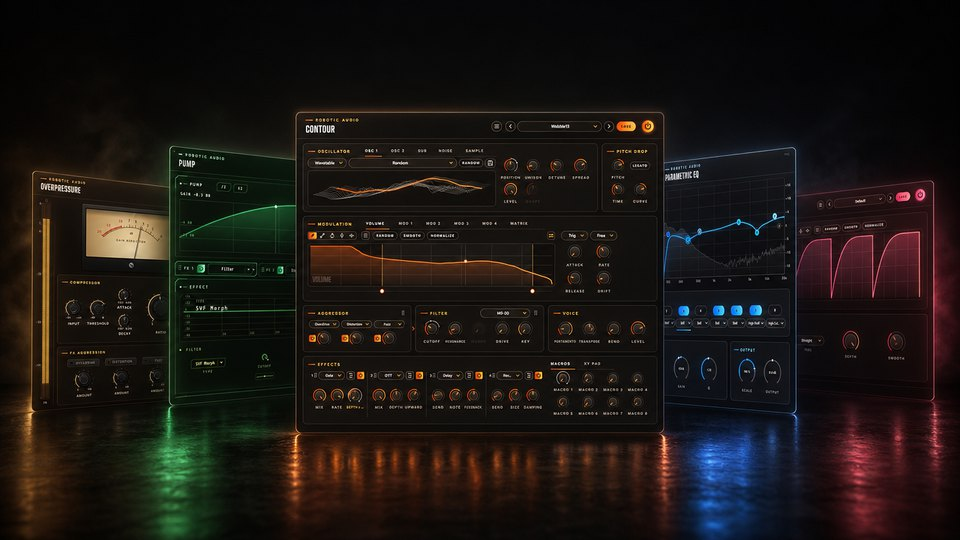
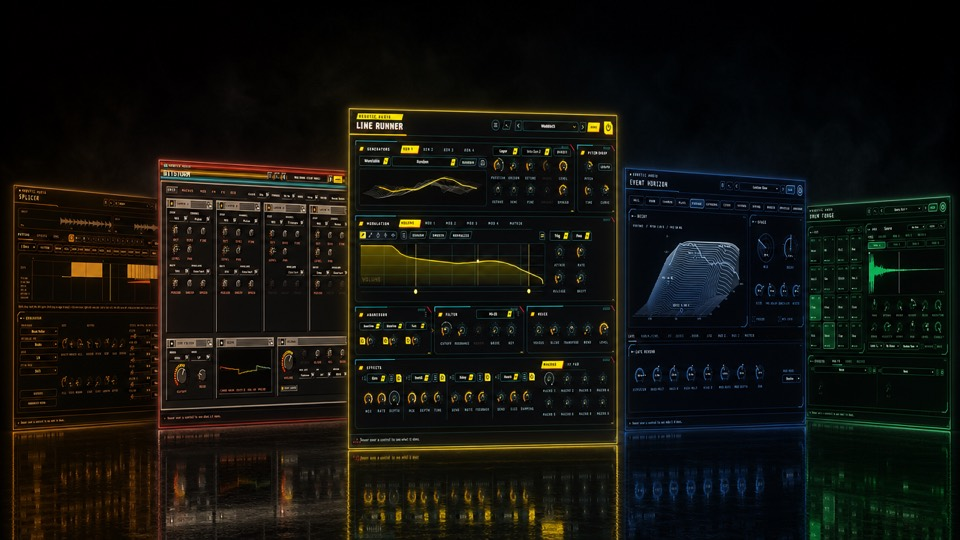
Homepage hero: Splicer, Bitstorm, Line Runner, Event Horizon and Drum Forge
Made with ElevenLabs (gpt-image-2) from the plugins' real screenshots, in the old picture's style.

diff --git a/index.html b/index.html
@@ -5,7 +5,7 @@
     <img src="{{ '/assets/images/home/hero-plugins.jpg' | relative_url }}"
          srcset="{{ '/assets/images/home/hero-plugins-960.jpg' | relative_url }} 960w, {{ '/assets/images/home/hero-plugins.jpg' | relative_url }} 1280w"
          sizes="(max-width: 1440px) 100vw, 1440px" width="1280" height="720" fetchpriority="high"
-         alt="Contour, Pump, Overpressure, Parametric EQ and Gatekeeper, side by side, each glowing in its own colour">
+         alt="Splicer, Bitstorm, Line Runner, Event Horizon and Drum Forge, side by side, each glowing in its own colour">
   </div>
   <div class="container">
     <p class="kicker">{{ site.tagline }}</p>
